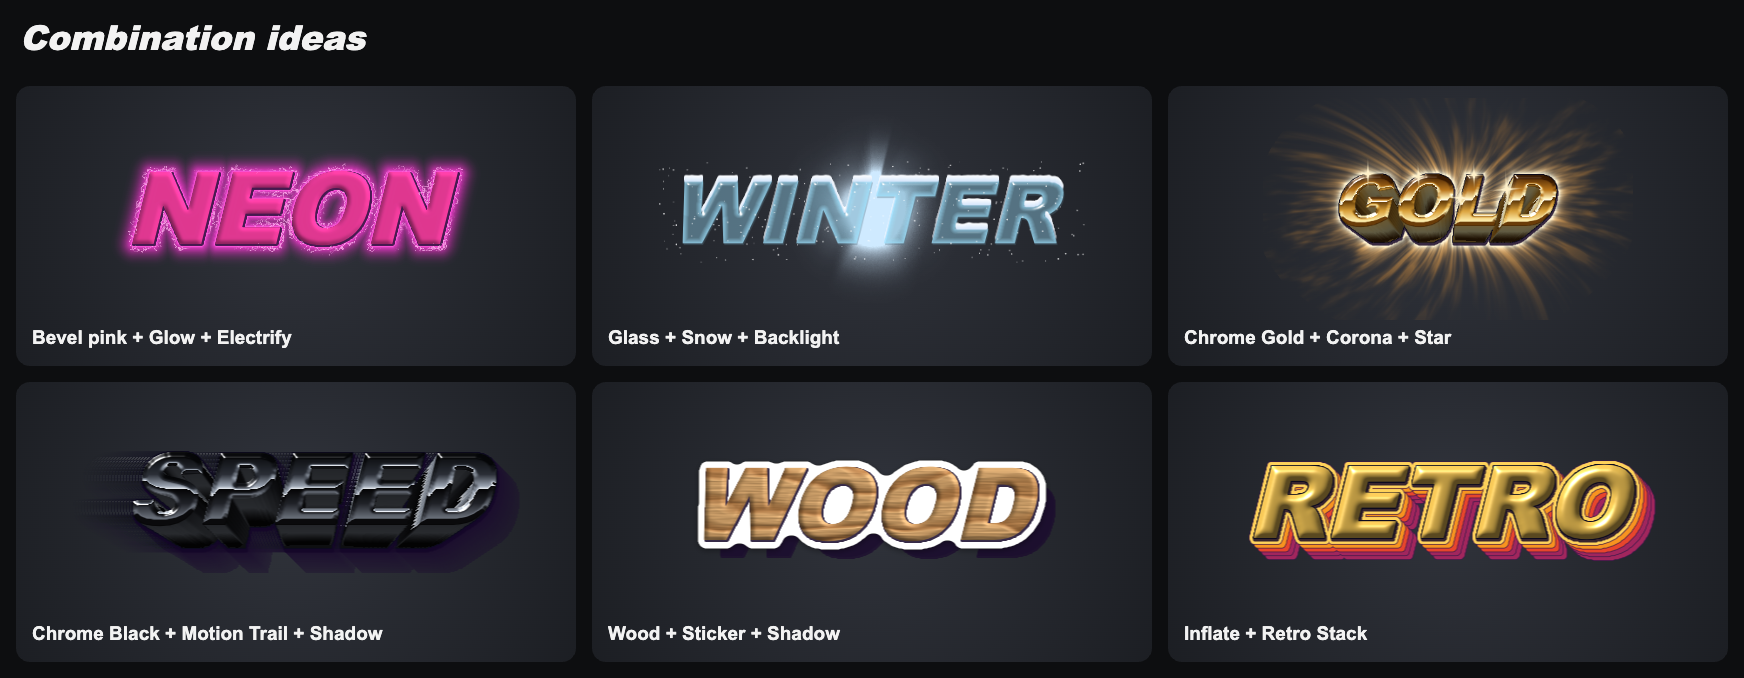
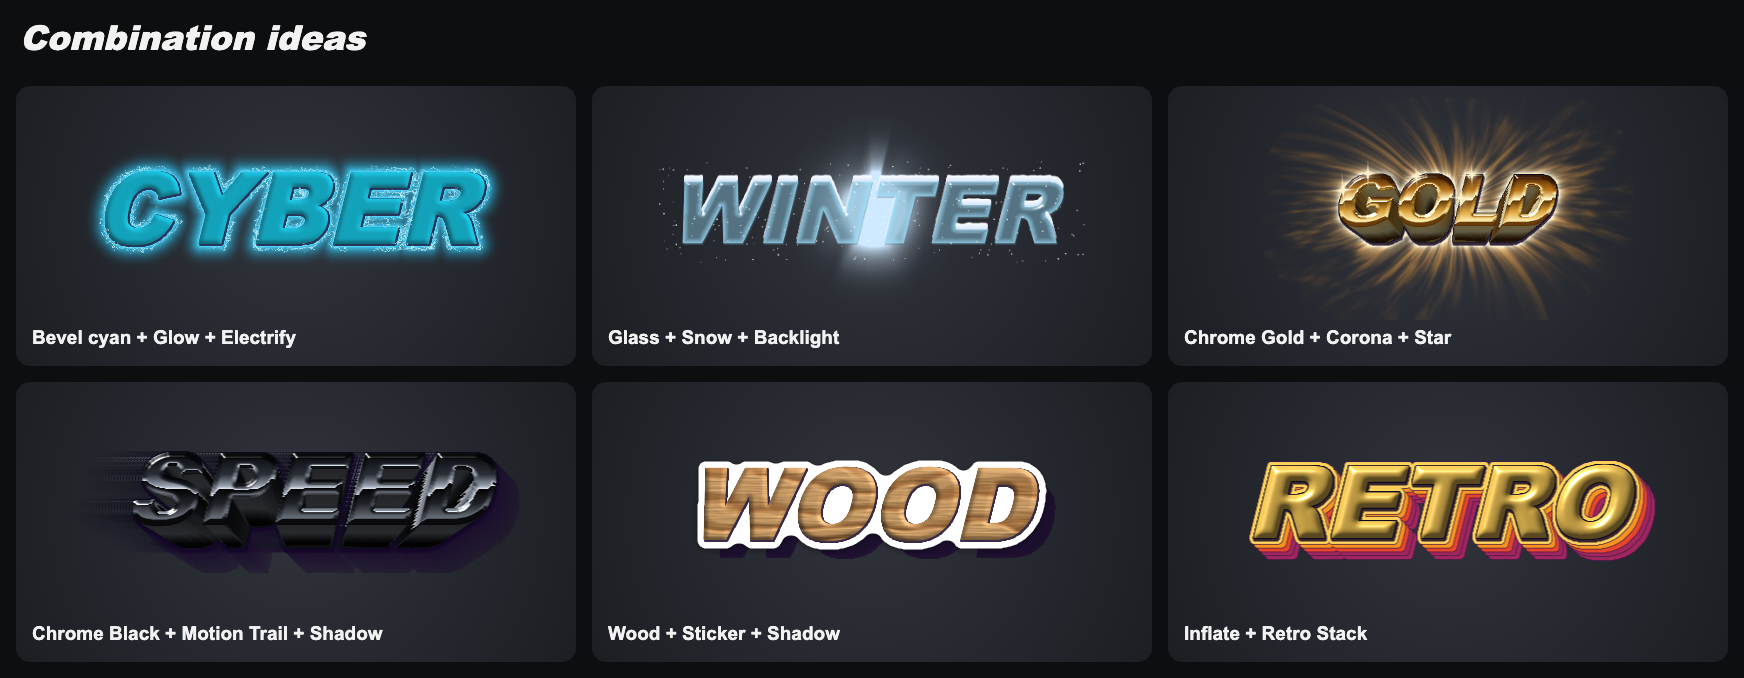
Blau statt Pink: Inflate, Neon Sign, Sticker Pop und Chrome-Seitenfarbe standardmäßig blau, Comic Burst rot; README-Bilder neu (0.8.5)

diff --git a/render/preview/fx.js b/render/preview/fx.js
@@ -24,8 +24,8 @@ const DEFAULTS = {
   horizon: 50,            // where sky meets ground in the chrome reflection, % (top → bottom)
   shine: 70,              // specular highlights, %
   sideMode: "material",   // material | solid – side walls in the material or a colour gradient
-  sideColor: "#ff3fa4", sideColor2: "#3b0a5c",
-  strokeColor: "#0c0a1e", stroke2: 0, stroke2Color: "#ff3fa4",   // outline + optional second outline
+  sideColor: "#2f74f0", sideColor2: "#0b1a4a",
+  strokeColor: "#0c0a1e", stroke2: 0, stroke2Color: "#2fa8ff",   // outline + optional second outline
   shadowColor: "#140628", shadowOpacity: 85,
   skyTop: "#0a1440", skyHorizon: "#dff2ff", groundHorizon: "#a86a34", groundBottom: "#4a2c16",   // material "custom"
   expandCanvas: true,
@@ -481,13 +481,13 @@ def({
 // 2) Inflate – glossy puffy / bubble letters
 def({
   id: "inflate", name: "Inflate", mode: "replace",
-  defaults: { color: "#ff3fa4", puff: 70, gloss: 75, stroke: 2, shadowX: 1.5, shadowY: 2.5 },
+  defaults: { color: "#2f74f0", puff: 70, gloss: 75, stroke: 2, shadowX: 1.5, shadowY: 2.5 },
   controls: [
     { key: "color", label: "Colour", type: "color" },
     { key: "puff", label: "Puffiness", type: "slider", min: 10, max: 100, step: 1, unit: "%" },
     { key: "gloss", label: "Gloss", type: "slider", min: 0, max: 100, step: 1, unit: "%" },
   ].concat(OUTLINE_CONTROLS),
-  presets: { "Bubblegum": {}, "Toxic Green": { color: "#4dff5c" }, "Y2K Chrome Blue": { color: "#3d7bff", gloss: 100 }, "Matte Puff": { color: "#ffb02e", gloss: 15 } },
+  presets: { "Blue Puff": {}, "Toxic Green": { color: "#4dff5c" }, "Y2K Chrome Blue": { color: "#3d7bff", gloss: 100 }, "Matte Puff": { color: "#ffb02e", gloss: 15 } },
   extent: (v, box) => { const m = outlineExt(v, box.h); return { l: m, t: m, r: m, b: m }; },
   render(ctx, v) {
     const { w, h } = ctx, N = w * h, d = ctx.F.dIn;
@@ -1669,12 +1669,12 @@ const C = (effect, v) => ({ effect, values: v || {} });
 const COMBOS = {
   "Thunder Chrome": [C("lightning", { ay: -160, by: 10 }), C("chromeExtrude", {}), C("glow", { color: "#5aa8ff", size: 14, intensity: 70, core: 20 })],
   "Flame Biker": [C("chromeExtrude", { material: "gold", depth: 18 }), C("fire", { height: 90 })],
-  "Neon Sign": [C("star", { count: 4, size: 18 }), C("bevel", { color: "#ff3fa4", width: 5, profile: "round" }), C("glow", { color: "#ff2bd6", size: 22, core: 60 })],
+  "Neon Sign": [C("star", { count: 4, size: 18 }), C("bevel", { color: "#2f74f0", width: 5, profile: "round" }), C("glow", { color: "#2fa8ff", size: 22, core: 60 })],
   "Toxic Slime": [C("inflate", { color: "#4dff5c" }), C("sticker", { color: "#141414", width: 6, fill: 8, edge: 0.6, edgeColor: "#7dff2b" }), C("glow", { color: "#7dff2b", size: 18, intensity: 60 })],
   "Frozen": [C("snow", { thickness: 10, flakes: 25 }), C("glass", { tint: "#9fe2ff" }), C("glow", { color: "#bfefff", size: 12, intensity: 50, core: 10 })],
   "70s Groove": [C("inflate", { color: "#ffe6b0", puff: 45, gloss: 40, stroke: 0, shadowX: 0, shadowY: 0 }), C("retroStack", {})],
-  "Sticker Pop": [C("bevel", { color: "#ff3f8e", width: 5, profile: "round" }), C("sticker", {})],
-  "Comic Burst": [C("halftone", { color: "#ff2d55", direction: "none", min: 70, cell: 3 }), C("retroStack", { palette: "comic", copies: 2, outline: 5, distance: 9, gap: 1.2 })],
+  "Sticker Pop": [C("bevel", { color: "#2f74f0", width: 5, profile: "round" }), C("sticker", {})],
+  "Comic Burst": [C("halftone", { color: "#e63228", direction: "none", min: 70, cell: 3 }), C("retroStack", { palette: "comic", copies: 2, outline: 5, distance: 9, gap: 1.2 })],
   "Hot Rod": [C("inflate", { color: "#ff5a1f", puff: 60 }), C("fire", { height: 70 }), C("shadow", { style: "drop", distance: 6, blur: 5, opacity: 55, color: "#000000" })],
   "Gold Sparkle": [C("star", { color: "#fff3c4", count: 8, size: 24 }), C("chromeExtrude", { material: "gold", depth: 12 }), C("shadow", { style: "long", angle: 45, distance: 25, color: "#2a1700", opacity: 70 })],
   "Eclipse": [C("bevel", { color: "#141414", width: 6 }), C("backlight", { color: "#ffffff", size: 70, length: 100, softness: 25 })],

diff --git a/render/effects.js b/render/effects.js
@@ -148,13 +148,13 @@ def({
 // 2) Inflate – glossy puffy / bubble letters
 def({
   id: "inflate", name: "Inflate", mode: "replace",
-  defaults: { color: "#ff3fa4", puff: 70, gloss: 75, stroke: 2, shadowX: 1.5, shadowY: 2.5 },
+  defaults: { color: "#2f74f0", puff: 70, gloss: 75, stroke: 2, shadowX: 1.5, shadowY: 2.5 },
   controls: [
     { key: "color", label: "Colour", type: "color" },
     { key: "puff", label: "Puffiness", type: "slider", min: 10, max: 100, step: 1, unit: "%" },
     { key: "gloss", label: "Gloss", type: "slider", min: 0, max: 100, step: 1, unit: "%" },
   ].concat(OUTLINE_CONTROLS),
-  presets: { "Bubblegum": {}, "Toxic Green": { color: "#4dff5c" }, "Y2K Chrome Blue": { color: "#3d7bff", gloss: 100 }, "Matte Puff": { color: "#ffb02e", gloss: 15 } },
+  presets: { "Blue Puff": {}, "Toxic Green": { color: "#4dff5c" }, "Y2K Chrome Blue": { color: "#3d7bff", gloss: 100 }, "Matte Puff": { color: "#ffb02e", gloss: 15 } },
   extent: (v, box) => { const m = outlineExt(v, box.h); return { l: m, t: m, r: m, b: m }; },
   render(ctx, v) {
     const { w, h } = ctx, N = w * h, d = ctx.F.dIn;
@@ -1336,12 +1336,12 @@ const C = (effect, v) => ({ effect, values: v || {} });
 const COMBOS = {
   "Thunder Chrome": [C("lightning", { ay: -160, by: 10 }), C("chromeExtrude", {}), C("glow", { color: "#5aa8ff", size: 14, intensity: 70, core: 20 })],
   "Flame Biker": [C("chromeExtrude", { material: "gold", depth: 18 }), C("fire", { height: 90 })],
-  "Neon Sign": [C("star", { count: 4, size: 18 }), C("bevel", { color: "#ff3fa4", width: 5, profile: "round" }), C("glow", { color: "#ff2bd6", size: 22, core: 60 })],
+  "Neon Sign": [C("star", { count: 4, size: 18 }), C("bevel", { color: "#2f74f0", width: 5, profile: "round" }), C("glow", { color: "#2fa8ff", size: 22, core: 60 })],
   "Toxic Slime": [C("inflate", { color: "#4dff5c" }), C("sticker", { color: "#141414", width: 6, fill: 8, edge: 0.6, edgeColor: "#7dff2b" }), C("glow", { color: "#7dff2b", size: 18, intensity: 60 })],
   "Frozen": [C("snow", { thickness: 10, flakes: 25 }), C("glass", { tint: "#9fe2ff" }), C("glow", { color: "#bfefff", size: 12, intensity: 50, core: 10 })],
   "70s Groove": [C("inflate", { color: "#ffe6b0", puff: 45, gloss: 40, stroke: 0, shadowX: 0, shadowY: 0 }), C("retroStack", {})],
-  "Sticker Pop": [C("bevel", { color: "#ff3f8e", width: 5, profile: "round" }), C("sticker", {})],
-  "Comic Burst": [C("halftone", { color: "#ff2d55", direction: "none", min: 70, cell: 3 }), C("retroStack", { palette: "comic", copies: 2, outline: 5, distance: 9, gap: 1.2 })],
+  "Sticker Pop": [C("bevel", { color: "#2f74f0", width: 5, profile: "round" }), C("sticker", {})],
+  "Comic Burst": [C("halftone", { color: "#e63228", direction: "none", min: 70, cell: 3 }), C("retroStack", { palette: "comic", copies: 2, outline: 5, distance: 9, gap: 1.2 })],
   "Hot Rod": [C("inflate", { color: "#ff5a1f", puff: 60 }), C("fire", { height: 70 }), C("shadow", { style: "drop", distance: 6, blur: 5, opacity: 55, color: "#000000" })],
   "Gold Sparkle": [C("star", { color: "#fff3c4", count: 8, size: 24 }), C("chromeExtrude", { material: "gold", depth: 12 }), C("shadow", { style: "long", angle: 45, distance: 25, color: "#2a1700", opacity: 70 })],
   "Eclipse": [C("bevel", { color: "#141414", width: 6 }), C("backlight", { color: "#ffffff", size: 70, length: 100, softness: 25 })],

diff --git a/tools/showcase.html b/tools/showcase.html
@@ -23,7 +23,7 @@ function textSource(text, px, color) {
   x.font = FONT(px);
   const w = Math.ceil(x.measureText(text).width + px * 0.45), h = Math.ceil(px * 1.12);
   c.width = w; c.height = h;
-  x.font = FONT(px); x.fillStyle = color || "#ff3f8e"; x.textBaseline = "alphabetic";
+  x.font = FONT(px); x.fillStyle = color || "#2f74f0"; x.textBaseline = "alphabetic";
   x.fillText(text, px * 0.12, Math.round(px * 0.93));
   const d = x.getImageData(0, 0, w, h).data, a = new Uint8Array(w * h), rgb = new Uint8Array(w * h * 3);
   for (let i = 0; i < w * h; i++) { a[i] = d[i * 4 + 3]; rgb[i * 3] = d[i * 4]; rgb[i * 3 + 1] = d[i * 4 + 1]; rgb[i * 3 + 2] = d[i * 4 + 2]; }
@@ -149,7 +149,7 @@ async function run() {
   // 7) combination ideas (stacks you can build yourself)
   {
     const ideas = [
-      ["NEON", "Bevel pink + Glow + Electrify", [["electrify", { color: "#ff4fd8" }], ["bevel", { color: "#ff3fa4", width: 5, profile: "round" }], ["glow", { color: "#ff2bd6", size: 20, core: 50 }]]],
+      ["CYBER", "Bevel cyan + Glow + Electrify", [["electrify", { color: "#7fe9ff" }], ["bevel", { color: "#14b8d4", width: 5, profile: "round" }], ["glow", { color: "#18c8ff", size: 20, core: 50 }]]],
       ["WINTER", "Glass + Snow + Backlight", [["snow", { thickness: 10, flakes: 30 }], ["glass", { tint: "#9fe2ff" }], ["backlight", { color: "#cfeaff" }]]],
       ["GOLD", "Chrome Gold + Corona + Star", [["star", { count: 5, size: 34, glow: 80, color: "#fff1c9" }], ["chromeExtrude", { material: "gold" }], ["corona", {}]]],
       ["SPEED", "Chrome Black + Motion Trail + Shadow", [["chromeExtrude", { material: "blackchrome" }], ["motionTrail", {}], ["shadow", {}]]],

diff --git a/render/engine.js b/render/engine.js
@@ -19,8 +19,8 @@ const DEFAULTS = {
   horizon: 50,            // where sky meets ground in the chrome reflection, % (top → bottom)
   shine: 70,              // specular highlights, %
   sideMode: "material",   // material | solid – side walls in the material or a colour gradient
-  sideColor: "#ff3fa4", sideColor2: "#3b0a5c",
-  strokeColor: "#0c0a1e", stroke2: 0, stroke2Color: "#ff3fa4",   // outline + optional second outline
+  sideColor: "#2f74f0", sideColor2: "#0b1a4a",
+  strokeColor: "#0c0a1e", stroke2: 0, stroke2Color: "#2fa8ff",   // outline + optional second outline
   shadowColor: "#140628", shadowOpacity: 85,
   skyTop: "#0a1440", skyHorizon: "#dff2ff", groundHorizon: "#a86a34", groundBottom: "#4a2c16",   // material "custom"
   expandCanvas: true,

diff --git a/README.md b/README.md
@@ -108,7 +108,7 @@ Diese Stapel baust du mit **+ Add effect** selbst nach:
 
 | Idee | Look | Dahinter | Darüber | Tipp |
 |---|---|---|---|---|
-| Neon | Bevel, Farbe Pink, Profil rund | Glow pink | Electrify pink | Dunkles Shirt, Glow-Größe 20 % |
+| Cyber | Bevel, Farbe Cyan, Profil rund | Glow cyan | Electrify hellblau | Dunkles Shirt, Glow-Größe 20 % |
 | Winter | Glass, hellblau | Backlight | Snow | Backlight hinter den Text ziehen |
 | Gold | Chrome Extrude, Gold | Corona | Star | Wenige, große Sterne wirken edler |
 | Speed | Chrome Extrude, Black Chrome | Motion Trail + Shadow | – | Richtung in der Vorschau ziehen |
